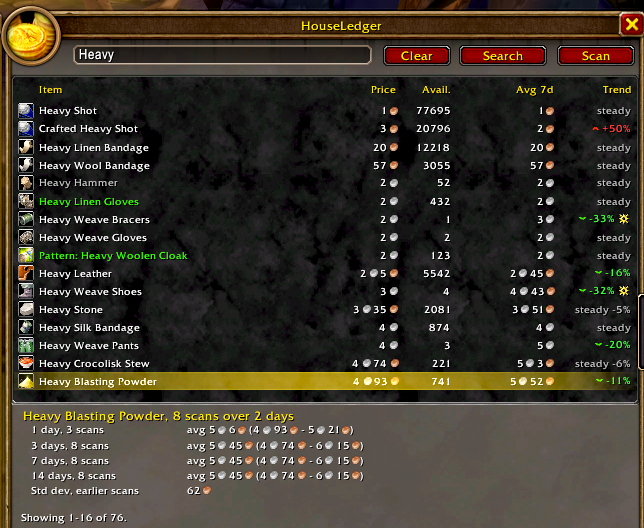
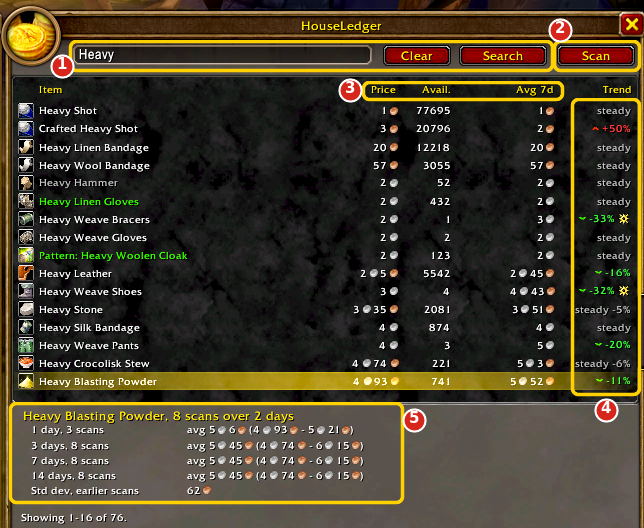
docs: annotate HouseLedger's screenshots like Unmaker's
The Buy and Sell screenshots get gold outlines and numbered badges, with
a numbered legend under them: search, Scan, price against the 7-day
average, the trend column, the row details, and on Sell the item slot,
the live numbers, the history, the trend and Reset.

The TL;DR now says you can scan every 15 minutes and once a day builds
the history, and that a deal shows as a star.

Changed region(s): [[0.0621, 0.0303, 1.0, 0.8182], [0.0, 0.7576, 0.6832, 0.9697]]

diff --git a/README.md b/README.md
@@ -47,8 +47,8 @@ Auction house prices, remembered. One Scan a day builds a 14-day price history o
 
 ### TL;DR
 
-- **Scan** at the auction house saves today's prices (once each 15 minutes).
-- **Hover any item:** the last price, a trend arrow and a deal icon. Hold **Shift** for more.
+- **Scan** at the auction house saves today's prices. You can scan every 15 minutes; once a day builds the history.
+- **Hover any item:** the last price, a trend arrow and a ⭐ for a deal. Hold **Shift** for the 1, 3, 7 and 14-day averages and ranges.
 - **Buy tab:** search, then compare today's price with your 7-day average. Click a row for 1, 3, 7 and 14 days.
 - **Sell tab:** drop an item in to see the lowest price now and its history. Then post it in Blizzard's window.
 - **Never** buys, posts or scans by itself.
@@ -57,7 +57,22 @@ Auction house prices, remembered. One Scan a day builds a 14-day price history o
   <img src="docs/screenshots/houseledger-buy.png" alt="HouseLedger Buy tab: search results with price, available, 7-day average and trend, and the saved stats for the selected row" width="420">
   <img src="docs/screenshots/houseledger-sell.png" alt="HouseLedger Sell tab: lowest price now, how many are up, and saved averages over 1, 3, 7 and 14 days with the trend" width="420">
 </p>
-<p align="center"><sub>Buy tab (left) and Sell tab (right). Game art in the screenshots © Blizzard Entertainment, Inc.</sub></p>
+
+**Buy tab** (left):
+1. **Search:** type a name and click **Search**. **Clear** empties the list.
+2. **Scan:** saves today's prices for the whole auction house (every 15 minutes at most).
+3. **Price** is the cheapest one up right now; **Avg 7d** is your saved 7-day average.
+4. **Trend:** a green arrow means cheaper than usual, a red one pricier, grey "steady" about the same, and a ⭐ marks a deal.
+5. **Click a row** for its saved prices over 1, 3, 7 and 14 days.
+
+**Sell tab** (right):
+1. **Drop an item** here, or right-click it in your bags.
+2. **Right now:** the lowest price up, how many are at that price, and how many in all.
+3. **History:** your saved averages and ranges over 1, 3, 7 and 14 days.
+4. **Trend** against your 7-day average.
+5. **Reset** empties the tab; **Scan** saves today's prices.
+
+<p align="center"><sub>Game art in the screenshots © Blizzard Entertainment, Inc.</sub></p>
 
 ### How to use it
 
